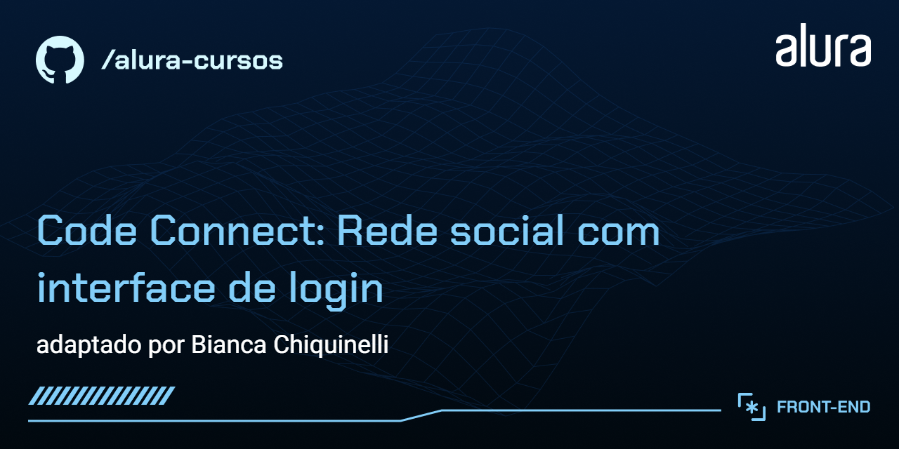
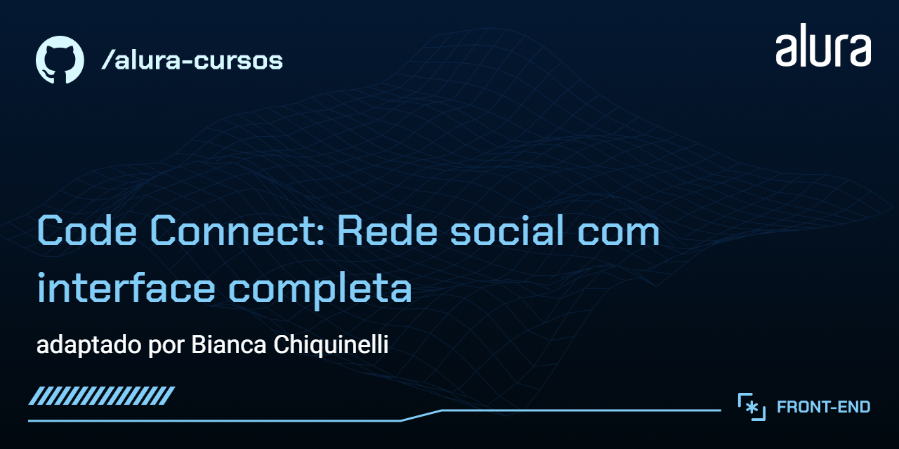
docs(readme): adapta readme de acord com atualizações do curso

Changed region(s): [[0.2492, 0.5924, 0.4672, 0.7171]]

diff --git a/src/pages/feed/feed.css b/src/pages/feed/feed.css
@@ -12,7 +12,7 @@
 }
 
 .container div {
-  flex-grow: 2;
+  flex-grow: inherit;
 }
 .form__search {
   background: var(--itens-background) url("../../img/search.svg") no-repeat 32px;

diff --git a/readme.md b/readme.md
@@ -1,103 +1,113 @@
-![Thumbnail do projeto. O título é “Code Connect: Rede social com interface de login” e o Subtítulo é “adaptado por Bianca Chiquinelli.”](./src/img/thumbnail-codeconnect-social.png)
+![Thumbnail do projeto. O título é “Code Connect: Rede social com interface completa” e o subtítulo é “adaptado por Bianca Chiquinelli.”](./src/img/thumbnail-codeconnect-social.png)
 
 # Code Connect
 
-Rede social fictícia voltada para desenvolvedores, criada para explorar fluxos assíncronos e componentização em React.  
-Projeto desenvolvido a partir dos cursos _"JavaScript: entendendo promises e async/await"_ e _"React: construindo componentes com JSX"_, ministrados por **Mônica Mazzochi Hillman**.
+Rede social fictícia voltada para desenvolvedores, criada para simular um produto real e explorar fluxos assíncronos, componentização em React.
+O projeto foi desenvolvido a partir dos cursos _"JavaScript: entendendo promises e async/await"_, _"React: construindo componentes com JSX"_ e _"React: configurando e estruturando projetos com Vite"_, com foco em aplicar conceitos técnicos em cenários próximos ao mercado.
 
 Este repositório apresenta **minhas contribuições específicas** e aprimoramentos aplicados ao desenvolvimento da aplicação.
 
-**Code Connect:** é uma rede social fictícia voltada para desenvolvedores.
+A aplicação permite publicar projetos com upload de imagem, gerenciamento de tags, descarte de conteúdo e visualização dinâmica na página de feed, que conta com busca por título, filtragem por tags e ordenação de resultados. aprimorando a usabilidade e a experiência do usuário.
 
-A página inicial permite inserir informações sobre projetos, adicionar tags de busca, publicar ou descartar conteúdos e fazer upload de imagens de pré-visualização que substituem dinamicamente a imagem principal.  
-Toda a aplicação foi estruturada em _HTML_, _CSS_ e _JavaScript_, com _media queries_ para responsividade, além de _React_ para as páginas de login e cadastro — utilizando componentes funcionais e reutilizáveis.
+Desenvolvido com _React_, _JavaScript_ e _CSS_, o projeto utiliza componentes funcionais reutilizáveis, gerenciamento de estado e responsividade, refletindo decisões técnicas alinhadas a cenários reais de desenvolvimento frontend.
 
-Embora não haja integração com back-end, o comportamento assíncrono foi simulado para representar fluxos reais de publicação e validação. O layout foi projetado para manter consistência, escalabilidade e facilidade de manutenção.
+**💡 Observação sobre persistência dos dados**
 
-## Minhas Contribuições
+_Este projeto consome uma API hospedada no Render utilizando json-server. Como o ambiente é efêmero, os projetos criados podem ser resetados após um período de inatividade ou novo deploy. As imagens, por outro lado, são armazenadas no GitHub e permanecem disponíveis. Essa arquitetura foi adotada intencionalmente para fins educacionais, demonstrando integração com APIs, upload de arquivos e consumo de dados em ambientes reais de deploy._
 
-### Tela Inicial
+## Minhas contribuições
 
-- **Upload e pré-visualização de imagem:** Adicionei leitura assíncrona com _FileReader_ e _Promise_, exibindo a prévia da imagem imediatamente e atualizando a interface de forma dinâmica.
-- **Publicação de projetos:** Modelei uma _Promise_ com _delay_ controlado para simular o envio de dados, testando fluxos de feedback visual e tratamento de erros.
-- **Descarte de projetos:** Criei a função que restaura o formulário ao estado inicial, limpando campos, tags e imagens — garantindo um reinício limpo e previsível.
-- **Gerenciamento dinâmico de tags:** Estruturei criação, validação e exclusão dinâmica de tags, mantendo consistência entre dados e interface e preparando a lógica para futuras expansões.
+Atuei de forma contínua na evolução do projeto, com foco em arquitetura em React, integração com API, qualidade de código e experiência do usuário, simulando a evolução de um produto em crescimento.
 
-![Demonstração do CodeConnect: Interface de uma rede social para desenvolvedores, com barra lateral de navegação que dá acesso às páginas de autenticação, feed, perfil e informações; formulário para detalhes do projeto, tags para busca e opções de upload de imagens; além de botões para publicar ou descartar. Layout moderno e organizado.](https://i.imgur.com/1d1VH6Q.png)
+### Publicação de projetos (fluxo completo)
 
-### Páginas de Login e Cadastro
+- **Migração da página de Publicar para React**: conversão da estrutura originalmente em _HTML_/_JS_ para componentes _React_, preparando a base para escalabilidade e manutenção.
+- **Integração com API**: envio completo de projetos via _FormData_ e _Axios_, incluindo dados textuais, tags e upload de imagem.
+- **Upload de imagem com pré-visualização**: leitura assíncrona com _FileReader_ e preview em _Base64_, garantindo feedback imediato ao usuário.
+- **Descarte de projetos**: restauração do formulário ao estado inicial, limpando campos, tags e imagens, garantindo um reinício limpo e previsível.
+- **Gerenciamento de tags**: criação, validação e exclusão dinâmica de tags, mantendo consistência entre dados e interface.
 
-- **Adaptação ao Vite:** Migrei o projeto para _Vite_, tornando o build mais rápido e o ambiente de desenvolvimento mais fluido.
-- **Componentes reutilizáveis:** Estruturei componentes funcionais flexíveis, permitindo personalizar textos e atributos sem duplicar código.
-- **Formulários controlados:** Configurei inputs com _useState_ e funções de captura (handleSubmit, handleChange) para refletir interações do usuário em tempo real.
+![Demonstração do CodeConnect: Interface de uma rede social para desenvolvedores, com barra lateral de navegação, formulário de projeto, tags, upload de imagens e botões de publicar e descartar. Layout moderno e organizado.](https://i.imgur.com/1d1VH6Q.png)
 
-![Demonstração do CodeConnect: Imagem de uma mulher negra de óculos sorrindo enquanto usa um laptop, com um fundo de grade digital verde. À direita, está a tela de login do “Code Connect”, com campos para nome, e-mail e senha, opções de “Lembrar” e “Esqueci a senha”, seguidas por um botão de login e opções de acesso com Google e GitHub. Ao final, há a mensagem “Ainda não tem cadastro?” e um botão com o texto “Crie seu cadastro”.](https://i.imgur.com/DluHNva.png)
+### Página de feed, busca e filtragem
+
+- **Busca por título e filtro por tags integrados**: lógica combinada de busca textual e filtragem por tags no componente Feed, com tratamento de casos como ausência de tags e resultados vazios, garantindo uma experiência estável e previsível.
+- **Ordenação de projetos**: implementação de ordenação para preparar o feed para crescimento no volume de dados.
+
+![Demonstração do CodeConnect: A tela mostra um menu lateral à esquerda com logo, botão “Publicar” e links de navegação. No topo, há uma barra de busca com o texto “Digite e aperte Enter” e filtros de tags como HTML, CSS e JavaScript. Na área principal, a seção “Recentes” exibe dois cards de projetos com imagem de capa, título e descrição resumida.](https://i.imgur.com/7WFgS17.png)
+
+### Páginas de login e cadastro
+
+- **Migração ao Vite**: ambiente de desenvolvimento mais rápido e build otimizado.
+- **Componentes reutilizáveis**: componentes funcionais flexíveis, evitando duplicação de código.
+- **Formulários controlados**: inputs controlados com _useState_ e funções de captura com _handlers_ para refletir interações em tempo real.
+
+![Demonstração do CodeConnect: Tela de login com campos de nome, e-mail e senha, opções de lembrar, recuperação de senha e login social com Google e GitHub.](https://i.imgur.com/DluHNva.png)
+
+### Componentização e arquitetura
+
+- **Props flexíveis e opcionais**: refatoração para maior reutilização, reduzindo acoplamento e facilitando manutenção.
+- **Organização estrutural**: reorganização de pastas, imports e arquivos para melhorar legibilidade e escalabilidade.
+- **Acessibilidade básica**: adição de _aria-label_, _title_ e descrições visuais em botões e links não finalizados.
 
 💡 _Este projeto marcou uma fase importante do meu aprendizado. Hoje sigo uma estrutura mais consistente, mas mantenho esta versão como registro da minha evolução e das decisões que me ajudaram a compreender arquitetura e boas práticas._
 
- 💡 _Este projeto foi uma das etapas em que explorei diferentes formas de estruturar a organização de pastas e arquivos. Hoje sigo um padrão mais consistente, mas deixei essa versão visível para mostrar meu processo de aprendizado_
+## Técnicas e tecnologias utilizadas
 
-## ✔ Técnicas e tecnologias utilizadas
+**Técnicas aplicadas**
 
-**Técnicas aplicadas:**
+- Leitura e processamento assíncrono de arquivos com _FileReader_, _Promises_ e _async/await_.
+- Envio de dados multipart através de `FormData` para publicação de projetos com dados textuais e arquivos, simulando fluxos reais de integração frontend–backend.
+- Tratamento de erros com _try/catch_ para garantir estabilidade da aplicação.
+- Componentes funcionais com _props_ flexíveis e gerenciamento de estado com _useState_ e _useEffect_ para atualizações instantâneas e código escalável.
 
-- **Leitura e processamento assíncrono de arquivos:** Combinação de _FileReader_, _Promises_ e _async/await_ para leitura e pré-visualização de imagens de forma fluida.
+**Tecnologias**
 
-- **Simulação de tempo de execução:** Uso de _setTimeout_ para testar fluxos com delays controlados, como envio de projetos.
-
-- **Tratamento de erros:** Aplicação de _try/catch_ para capturar falhas e garantir estabilidade da aplicação.
-
-- **Manipulação de eventos:** Uso de _addEventListener_ e lógica React para tornar a interface interativa e responsiva às ações do usuário.
-
-- **Componentização e gerenciamento de estado:** Construção de componentes modulares e controle com _useState_, garantindo atualização instantânea e código escalável.
-
-**Tecnologias:**
-
-- `HTML5` & `CSS3`
-
+- `HTML5` e `CSS3`
 - `JavaScript` (ES6+)
-
 - `React` (JSX, Hooks)
-
 - `Vite`
+- `Axios`
 
 ## Como acessar o projeto
 
 - **Versão online**: [Clique aqui](https://3802-code-connect.vercel.app/)
 - **Rodar localmente**:
 
-1. Clone este repositório:
+  1. Clone o repositório:
 
-   ```bash
-   git clone https://github.com/chiquinelli-bia/code-connect.git
+     ```bash
+     git clone https://github.com/chiquinelli-bia/code-connect.git
+     ```
 
-   ```
+  2. Acesse a pasta do projeto:
 
-2. Acesse a pasta do projeto:
+     ```bash
+     cd code-connect
+     ```
 
-   ```bash
-   cd code-connect
+  3. Instale as dependências:
 
-   ```
+     ```bash
+     npm install
+     ```
 
-3. Instale as dependências:
+  4. Inicie o servidor de desenvolvimento:
 
-   ```bash
-   npm install
+     ```bash
+     npm run dev
+     ```
 
-   ```
-
-4. Inicie o servidor de desenvolvimento:
-
-   ```bash
-   npm run dev
-
-   ```
-
-5. Abra no navegador o endereço exibido no terminal e Navegue pelas funcionalidades implementadas.
+  5. Abra no navegador o endereço exibido no terminal.
 
 ## Créditos
 
-- Projeto original: [Tela inicial](https://github.com/alura-cursos/3802-javascript-assincrono) e [Tela de login e cadastro](https://github.com/alura-cursos/3492-React-componentes/tree/projeto-base)
-- Instrutor(es) e curso: Mônica Mazzochi Hillman, [JavaScript: entendendo promises e async/await](https://cursos.alura.com.br/course/javascript-entendendo-promises-async-await) e [React: construindo componentes com JSX](https://cursos.alura.com.br/course/react-construindo-componentes-jsx)
-- Este repositório destaca **apenas minhas contribuições** ao projeto
+- Projeto base da Alura:
+
+  - [Tela inicial](https://github.com/alura-cursos/3802-javascript-assincrono)
+  - [Tela de login e cadastro](https://github.com/alura-cursos/3492-React-componentes/tree/projeto-base)
+  - [Tela de Feed](https://cursos.alura.com.br/course/react-configurando-estruturando-projetos-vite)
+
+- Instrutora: _Mônica Mazzochi Hillman_
+
+Este repositório destaca exclusivamente _minhas contribuições_ e _adaptações_ sobre os projetos base.
